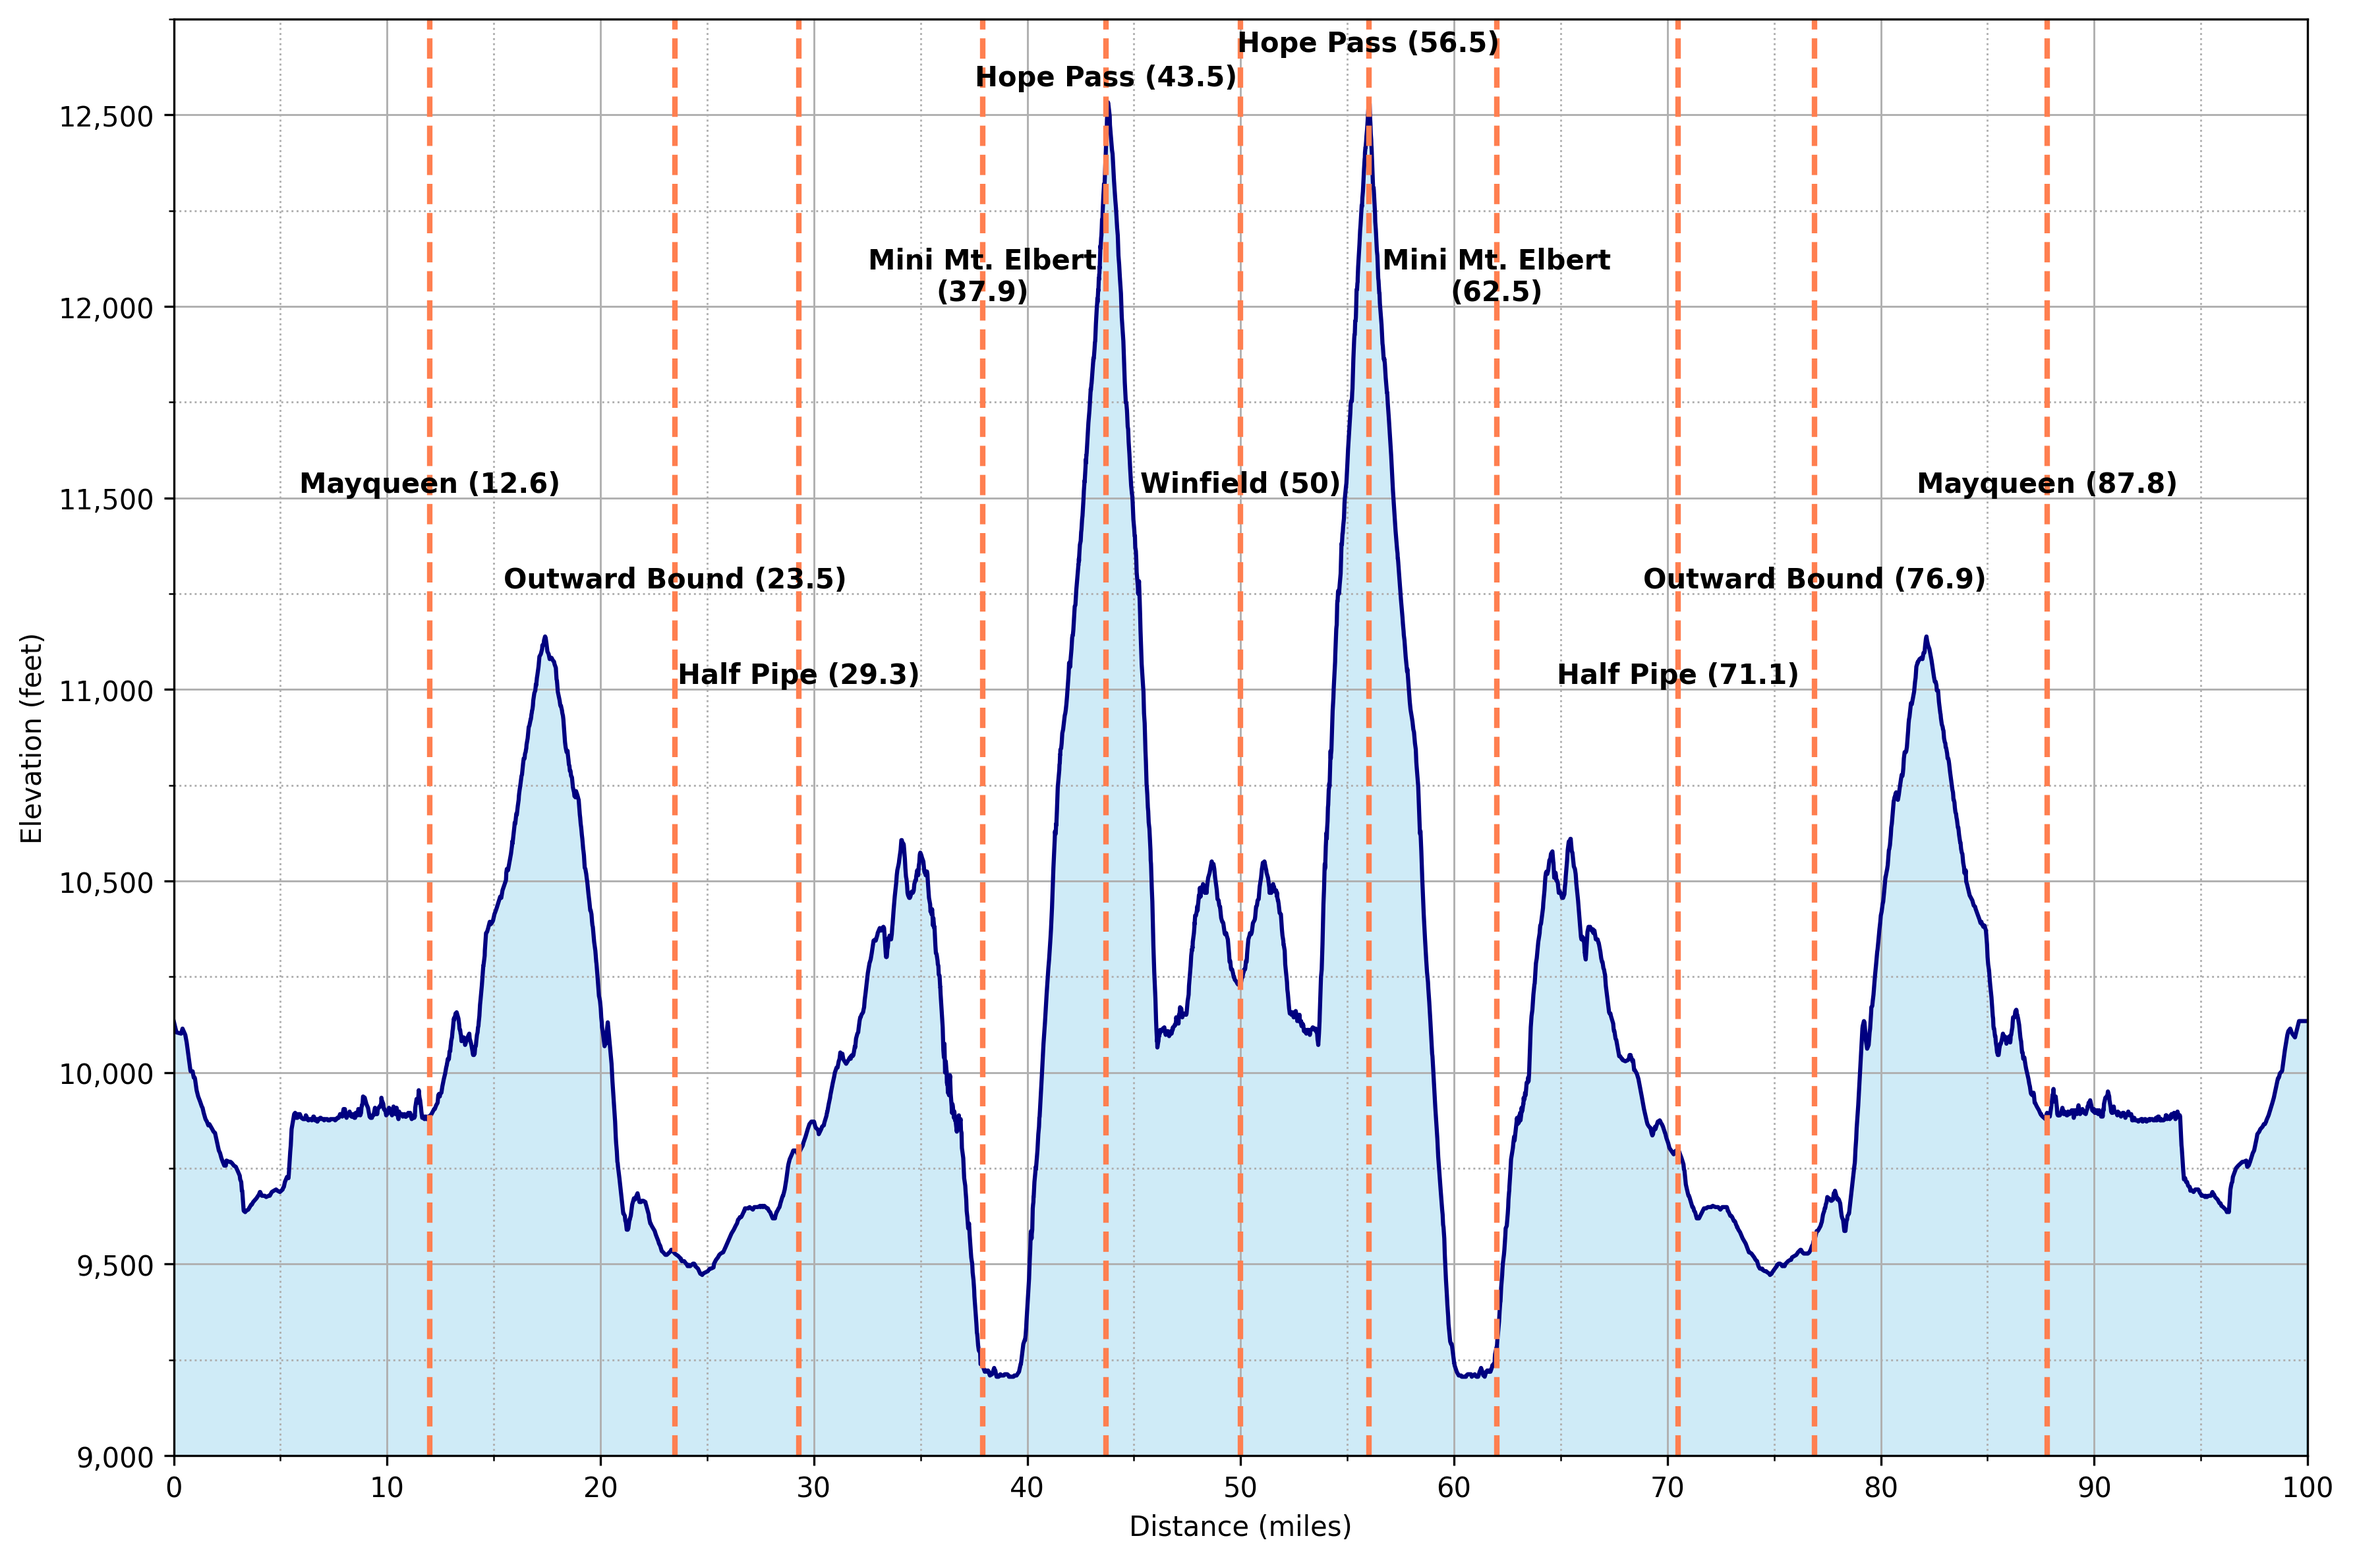
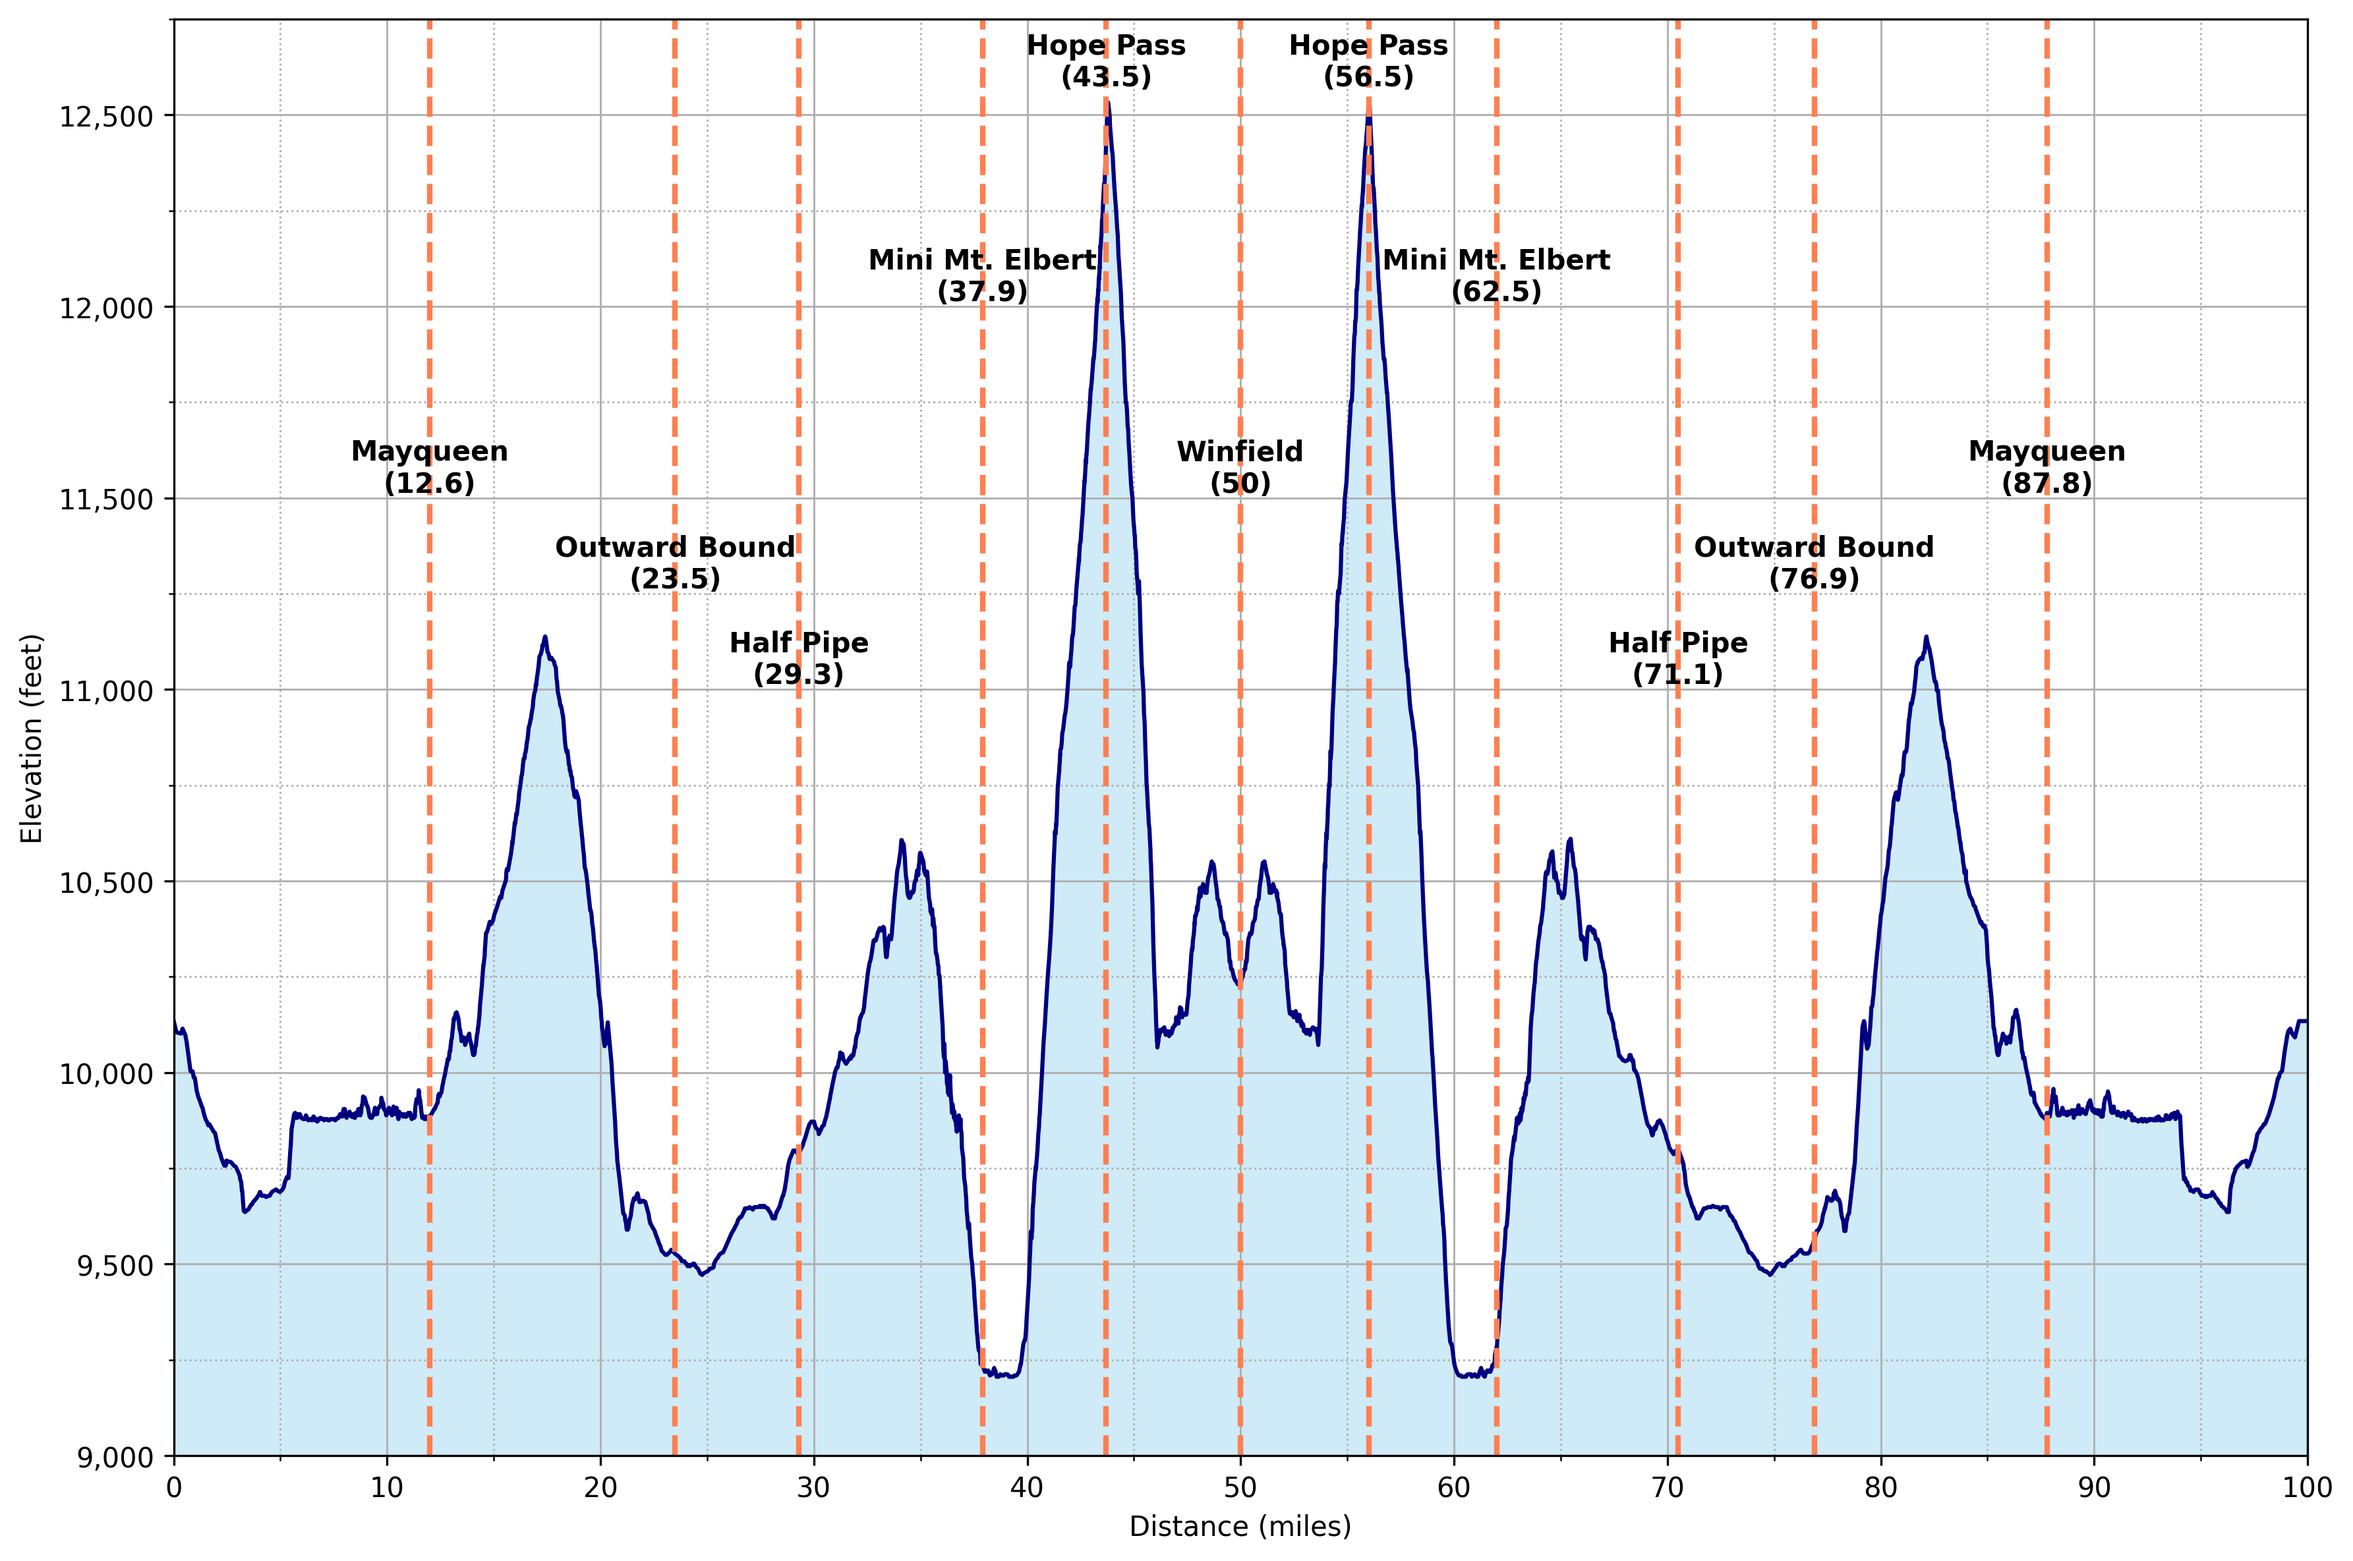
Fix table css, update profile graph

diff --git a/docs/assets/css/style.scss b/docs/assets/css/style.scss
@@ -59,41 +59,50 @@ html {
     margin: 0 auto;
 }
 
-.custom-caption {
-    font-size: 0.9em; /* Make the caption slightly smaller */
-    color: darkgray;
-    font-style: italic;
-    text-align: center;
-    padding-top: 10px; /* Padding between the image and caption */
-    padding-bottom: 10px; /* Padding between the caption and the next item */
-}
-
-.chart-scroll-container {
-    width: 100%; /* Full width of the page */
-    display: flex; /* Use flexbox for centering */
-    justify-content: center; /* Center the container */
-    overflow-x: auto; /* Enable horizontal scrolling */
-}
-
-.chart-container {
-    width: 100%; /* Width of the chart */
-    // min-width: 600px; /* Minimum width to prevent too much shrinking */
-}
-
-.child {
-    width: 75vw;
-    position: relative;
-    left: 25%;
-    right: 25%;
-    margin-left: -25vw;
-    margin-right: -25vw;
-    overflow-x: auto; 
-    text-align: center;
-    padding-bottom: 20px;
-  }
 
 .header-seps {
     border-top: 1px solid gray;
     margin-top: 40px;
     padding-top: 10px;
+}
+
+// .child {
+//     width: 75vw;
+//     position: relative;
+//     left: 25%;
+//     right: 25%;
+//     margin-left: -25vw;
+//     margin-right: -25vw;
+//     overflow-x: auto; 
+//     text-align: center;
+//     padding-bottom: 20px;
+//   }
+
+.child {
+    position: relative;
+    width: 100%;  /* Chart container takes the full width of its parent */
+    overflow-x: auto;  /* Enables horizontal scrolling if necessary */
+    text-align: center;
+    padding-bottom: 20px;
+}
+
+.child table {
+    width: calc(100vw - 40px);  /* Subtract a fixed amount to prevent horizontal scrollbar issues */
+    min-width: 1000px;  /* Set a minimum width to ensure it's larger than the container */
+    margin: 0 auto;  /* Center the table within the container */
+}
+
+@media (min-width: 1024px) {
+    .child {
+        width: 150%;  /* Allow the container to exceed the width of the text block */
+        margin-left: -25%;  /* Shift the container to the left */
+        margin-right: -25%;  /* Shift the container to the right */
+    }
+}
+
+@media (max-width: 1023px) {
+    .child table {
+        width: 100%;  /* On smaller screens, fit the table within the screen */
+        min-width: 600px;  /* Ensure it doesn’t shrink too much */
+    }
 }
